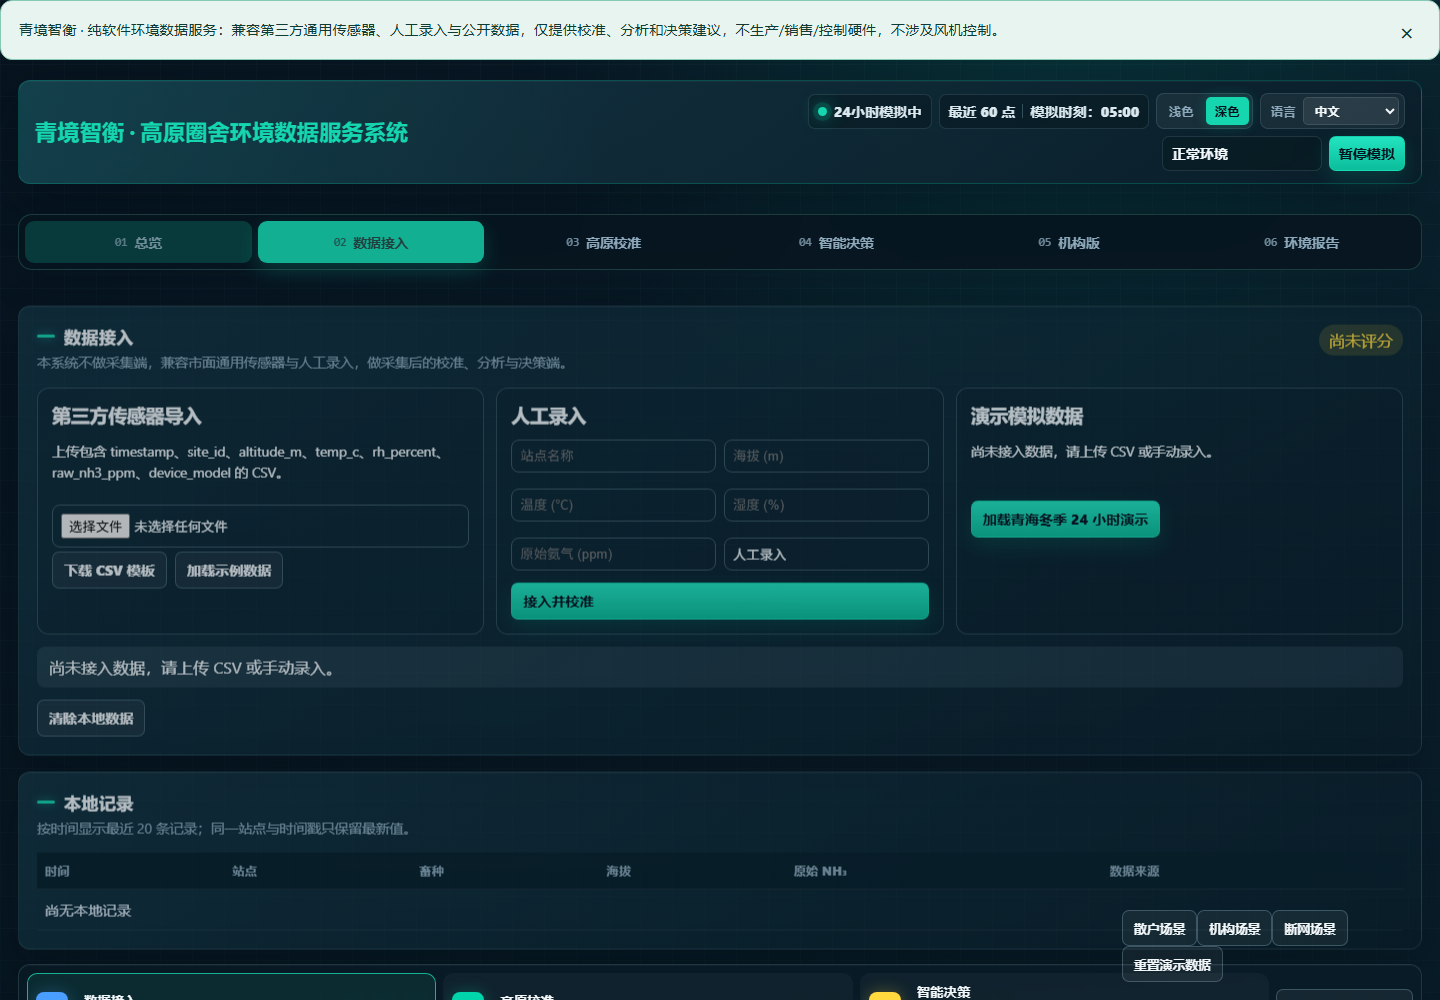
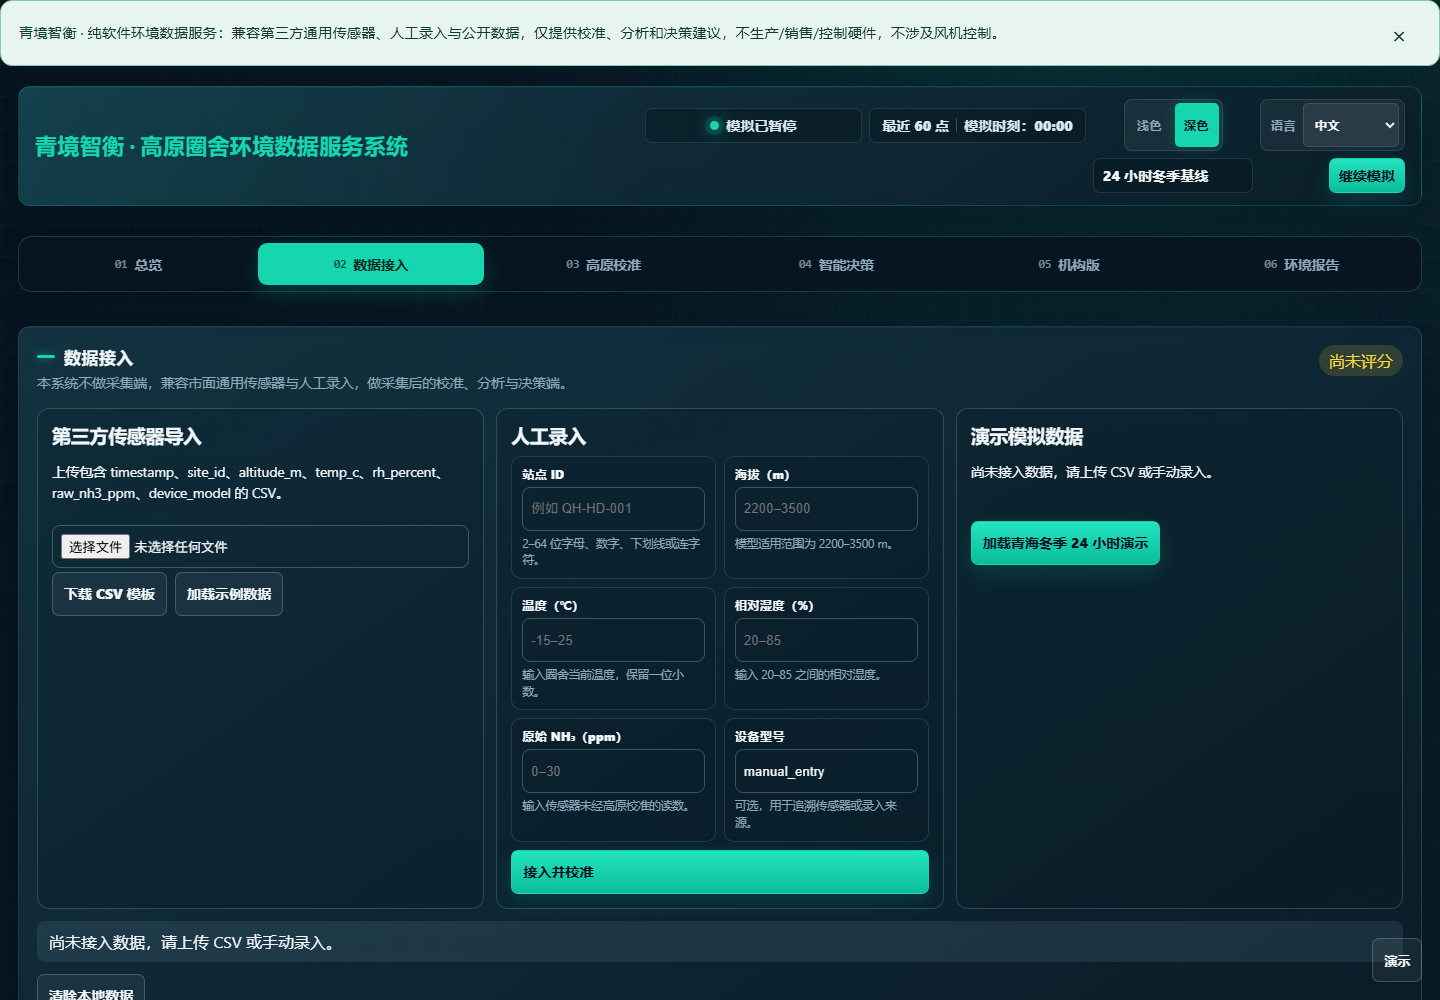
chore: finalize balanced quality audit

diff --git a/index.html b/index.html
@@ -186,6 +186,103 @@
       align-items: center;
     }
 
+    /* Reserve the final desktop header footprint before the remainder of the
+       inline stylesheet is parsed. Dynamic telemetry labels can otherwise
+       add a flex row during boot and shift the whole dashboard. */
+    @media (min-width: 981px) {
+      .topbar {
+        display: flex;
+        min-height: 120px;
+        gap: 14px;
+        padding: 12px 16px;
+        align-items: center;
+      }
+      .topbar > .brand-block { min-width: 0; flex: 1 1 310px; }
+      .topbar .title {
+        max-width: 100%;
+        overflow: visible;
+        overflow-wrap: anywhere;
+        text-overflow: clip;
+        text-wrap: wrap;
+        white-space: normal;
+        font-size: clamp(1.16rem, 1.55vw, 1.55rem);
+        line-height: 1.24;
+      }
+      .topbar .subtitle { display: none; }
+      .status-strip {
+        display: grid;
+        grid-template-columns: minmax(130px, 1fr) minmax(210px, 1fr) 160px 145px;
+        grid-template-rows: repeat(2, minmax(35px, auto));
+        flex: 0 1 760px;
+        min-width: 0;
+        min-height: 94px;
+        margin-left: auto;
+        gap: 7px;
+        align-items: center;
+      }
+      .status-strip > .pill:first-child { grid-column: 1; grid-row: 1; justify-content: center; }
+      .status-strip > .telemetry-pill { grid-column: 2; grid-row: 1; justify-content: center; }
+      .status-strip > .theme-switch { grid-column: 3; grid-row: 1; justify-self: center; }
+      .status-strip > .language-switch { grid-column: 4; grid-row: 1; justify-self: end; }
+      .status-strip .pill,
+      .status-strip .control,
+      .status-strip .scenario-select { min-height: 34px; padding: 7px 9px; }
+      .status-strip #scenarioSelect { grid-column: 3; grid-row: 2; }
+      .status-strip #toggleStream { grid-column: 4; grid-row: 2; justify-self: end; }
+      .telemetry-pill { gap: 7px; }
+      .telemetry-divider { width: 1px; height: 14px; background: var(--line-strong); }
+      .theme-switch {
+        display: inline-flex;
+        align-items: center;
+        gap: 3px;
+        min-height: 36px;
+        padding: 3px;
+        border: 1px solid var(--line);
+        border-radius: 8px;
+        background: rgba(255, 255, 255, 0.055);
+      }
+      .theme-option {
+        min-width: 44px;
+        min-height: 44px;
+        padding: 4px 9px;
+        border: 0;
+        border-radius: 5px;
+        color: var(--muted);
+        background: transparent;
+        font-size: 0.78rem;
+        font-weight: 850;
+      }
+      .language-switch {
+        display: inline-flex;
+        align-items: center;
+        gap: 7px;
+        min-height: 36px;
+        padding: 3px 5px 3px 10px;
+        border: 1px solid var(--line);
+        border-radius: 8px;
+        color: var(--muted);
+        background: rgba(255, 255, 255, 0.055);
+        font-size: 0.78rem;
+        font-weight: 850;
+        white-space: nowrap;
+      }
+      .language-switch select {
+        min-height: 44px;
+        padding: 4px 22px 4px 7px;
+        border: 1px solid var(--line);
+        border-radius: 5px;
+        color: var(--text);
+        background: rgba(255, 255, 255, 0.08);
+        font-size: 0.78rem;
+        font-weight: 850;
+      }
+      #main-content { min-height: calc(100vh - 321px); }
+    }
+
+    @media (min-width: 901px) and (max-width: 980px) {
+      #main-content { min-height: calc(100vh - 321px); }
+    }
+
     .pill,
     .control,
     .scenario-select {
@@ -2855,6 +2952,23 @@
       .qjzh-main-nav .nav-icon { font-size: .58rem; }
       .qjzh-main-nav .nav-link span:last-child { max-width: 100%; overflow: hidden; text-overflow: ellipsis; white-space: nowrap; }
     }
+    /* Keep the late cascade aligned with the critical reservation above. */
+    @media (min-width: 981px) {
+      .topbar { min-height: 120px; }
+      .status-strip {
+        display: grid;
+        grid-template-columns: minmax(130px, 1fr) minmax(210px, 1fr) 160px 145px;
+        grid-template-rows: repeat(2, minmax(35px, auto));
+        min-height: 94px;
+        align-items: center;
+      }
+      .status-strip > .pill:first-child { grid-column: 1; grid-row: 1; justify-content: center; }
+      .status-strip > .telemetry-pill { grid-column: 2; grid-row: 1; justify-content: center; }
+      .status-strip > .theme-switch { grid-column: 3; grid-row: 1; justify-self: center; }
+      .status-strip > .language-switch { grid-column: 4; grid-row: 1; justify-self: end; }
+      .status-strip #scenarioSelect { grid-column: 3; grid-row: 2; }
+      .status-strip #toggleStream { grid-column: 4; grid-row: 2; justify-self: end; }
+    }
     @media print{header,nav,footer,.qjzh-scene-presets,.qjzh-boundary-banner,.pipeline-strip,button,.view:not([data-view="report"]){display:none!important}html,body{font-size:11pt;line-height:1.55}html[data-language="bo"],html[data-language="bo"] body{font-size:11.5pt;line-height:1.65}.data-table{font-size:9pt}body{padding:0;background:#fff;color:#17232d}.app{max-width:none;margin:0;padding:0}.view[data-view="report"]{display:block!important;animation:none;min-height:0}.qjzh-report-panel{border:0;box-shadow:none;background:#fff}.qjzh-report-preview{display:block!important;page-break-inside:avoid}@page{size:A4;margin:15mm}}
     @media(prefers-reduced-motion:reduce){.view,.qjzh-main-nav .nav-link,.overview-quick{animation:none;transition:none}}
   </style>
@@ -2873,8 +2987,8 @@
         <p class="subtitle sr-only">数据接入 → 高原校准 → 智能决策 → 建议输出 → 环境报告</p>
       </div>
       <div class="status-strip" aria-label="系统状态与演示控制">
-        <span class="pill"><span class="dot"></span><span id="streamStatus">采集中</span></span>
-        <span class="pill telemetry-pill"><span id="recentPoints">最近 60 点</span><i class="telemetry-divider" aria-hidden="true"></i><span id="lastUpdate">更新：--</span></span>
+        <span class="pill"><span class="dot"></span><span id="streamStatus">24小时模拟中</span></span>
+        <span class="pill telemetry-pill"><span id="recentPoints">最近 60 点</span><i class="telemetry-divider" aria-hidden="true"></i><span id="lastUpdate">模拟时刻：00:00</span></span>
         <div class="theme-switch" role="group" aria-label="显示主题">
           <button type="button" class="theme-option" data-theme-value="light" aria-pressed="false">浅色</button>
           <button type="button" class="theme-option active" data-theme-value="dark" aria-pressed="true">深色</button>
@@ -2960,7 +3074,7 @@
       <div class="view-heading"><div><h2 id="decisionViewTitle" data-i18n="view.decision.title">智能决策</h2><p data-i18n="view.decision.note">依据校准数据与本地知识库生成风险等级、时间窗口、处置建议和可追溯规则。</p></div></div>
       <div class="view-layout"><section class="left-col" id="decisionMount"></section><aside class="right-col" id="decisionSideMount"></aside></div>
     </section>
-    <div class="qjzh-view-source" id="qjzhViewSource" aria-hidden="true">
+    <div class="qjzh-view-source" id="qjzhViewSource" aria-hidden="true" hidden>
     <div class="main-grid">
       <section class="left-col">
         <!-- 首屏优先：四路传感器数据先于详细建议展示。 -->
